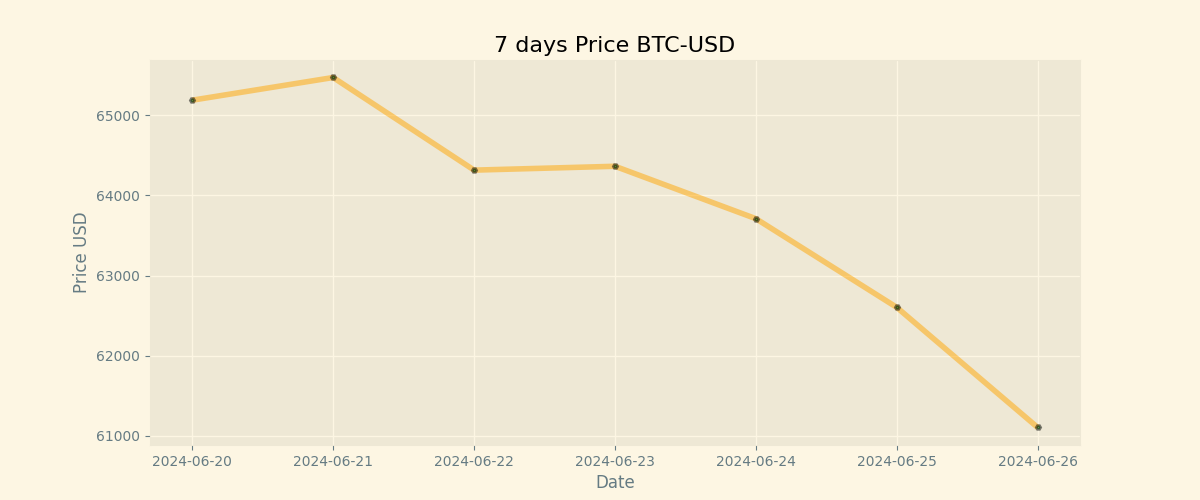
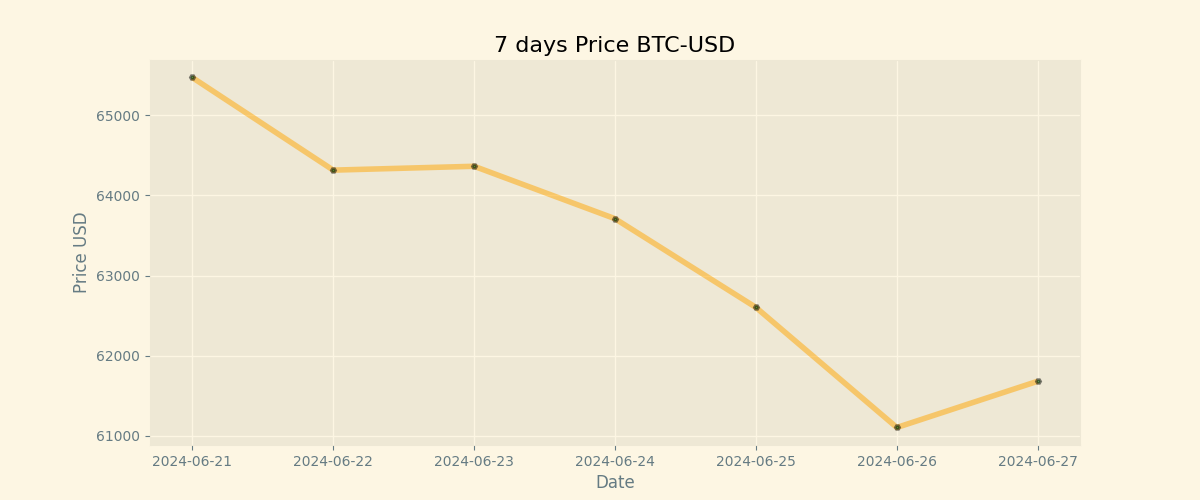
Duty Updates 2024-06-27

diff --git a/README.md b/README.md
@@ -9,8 +9,8 @@
 
 | Currency | Price           |
 | -------- | --------------- |
-| **BTC**  | **$ 61102.56** |
-| **ETH**  | **$ 3347.93** |
+| **BTC**  | **$ 61680.23** |
+| **ETH**  | **$ 3381.93** |
 
 ## BTC chart
 
